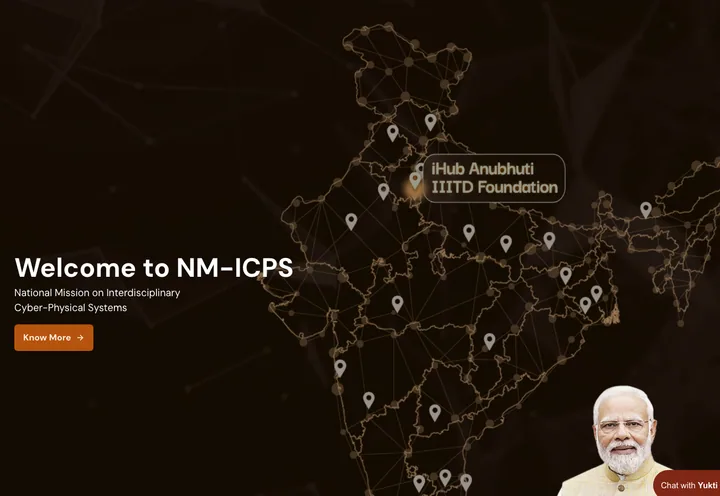
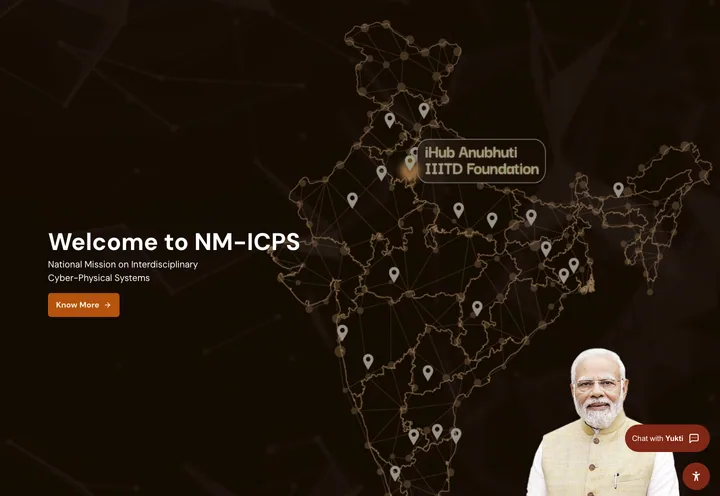
fix: project covers show the full site width
Covers are recaptured at the card's exact 1.45 ratio from the full
1440px viewport and the rest-state zoom is removed, so no site edge is
cropped at rest or on hover.

Changed region(s): [[0.0, 0.0302, 1.0, 1.0], [0.6722, 0.8468, 0.7028, 0.877]]

diff --git a/src/components/ProjectCards.tsx b/src/components/ProjectCards.tsx
@@ -117,7 +117,7 @@ type Tone = "light" | "dark";
 
 const EASE = "transition-all duration-500 ease-[cubic-bezier(0.22,1,0.36,1)]";
 /** Site capture: blurred and tinted at rest so the logo reads; clear on hover. */
-const SITE_IMG = `absolute inset-0 h-full w-full object-cover blur-[5px] scale-[1.04] group-hover:blur-none group-hover:scale-100 ${EASE}`;
+const SITE_IMG = `absolute inset-0 h-full w-full object-cover blur-[5px] group-hover:blur-none ${EASE}`;
 const tintClass = (tone: Tone) =>
   `pointer-events-none absolute inset-0 ${tone === "light" ? "bg-white/40" : "bg-[#000016]/45"} group-hover:opacity-0 ${EASE}`;
 const LOGO_IMG = `pointer-events-none absolute left-1/2 top-1/2 w-[64%] -translate-x-1/2 -translate-y-1/2 group-hover:opacity-0 group-hover:scale-95 ${EASE}`;
